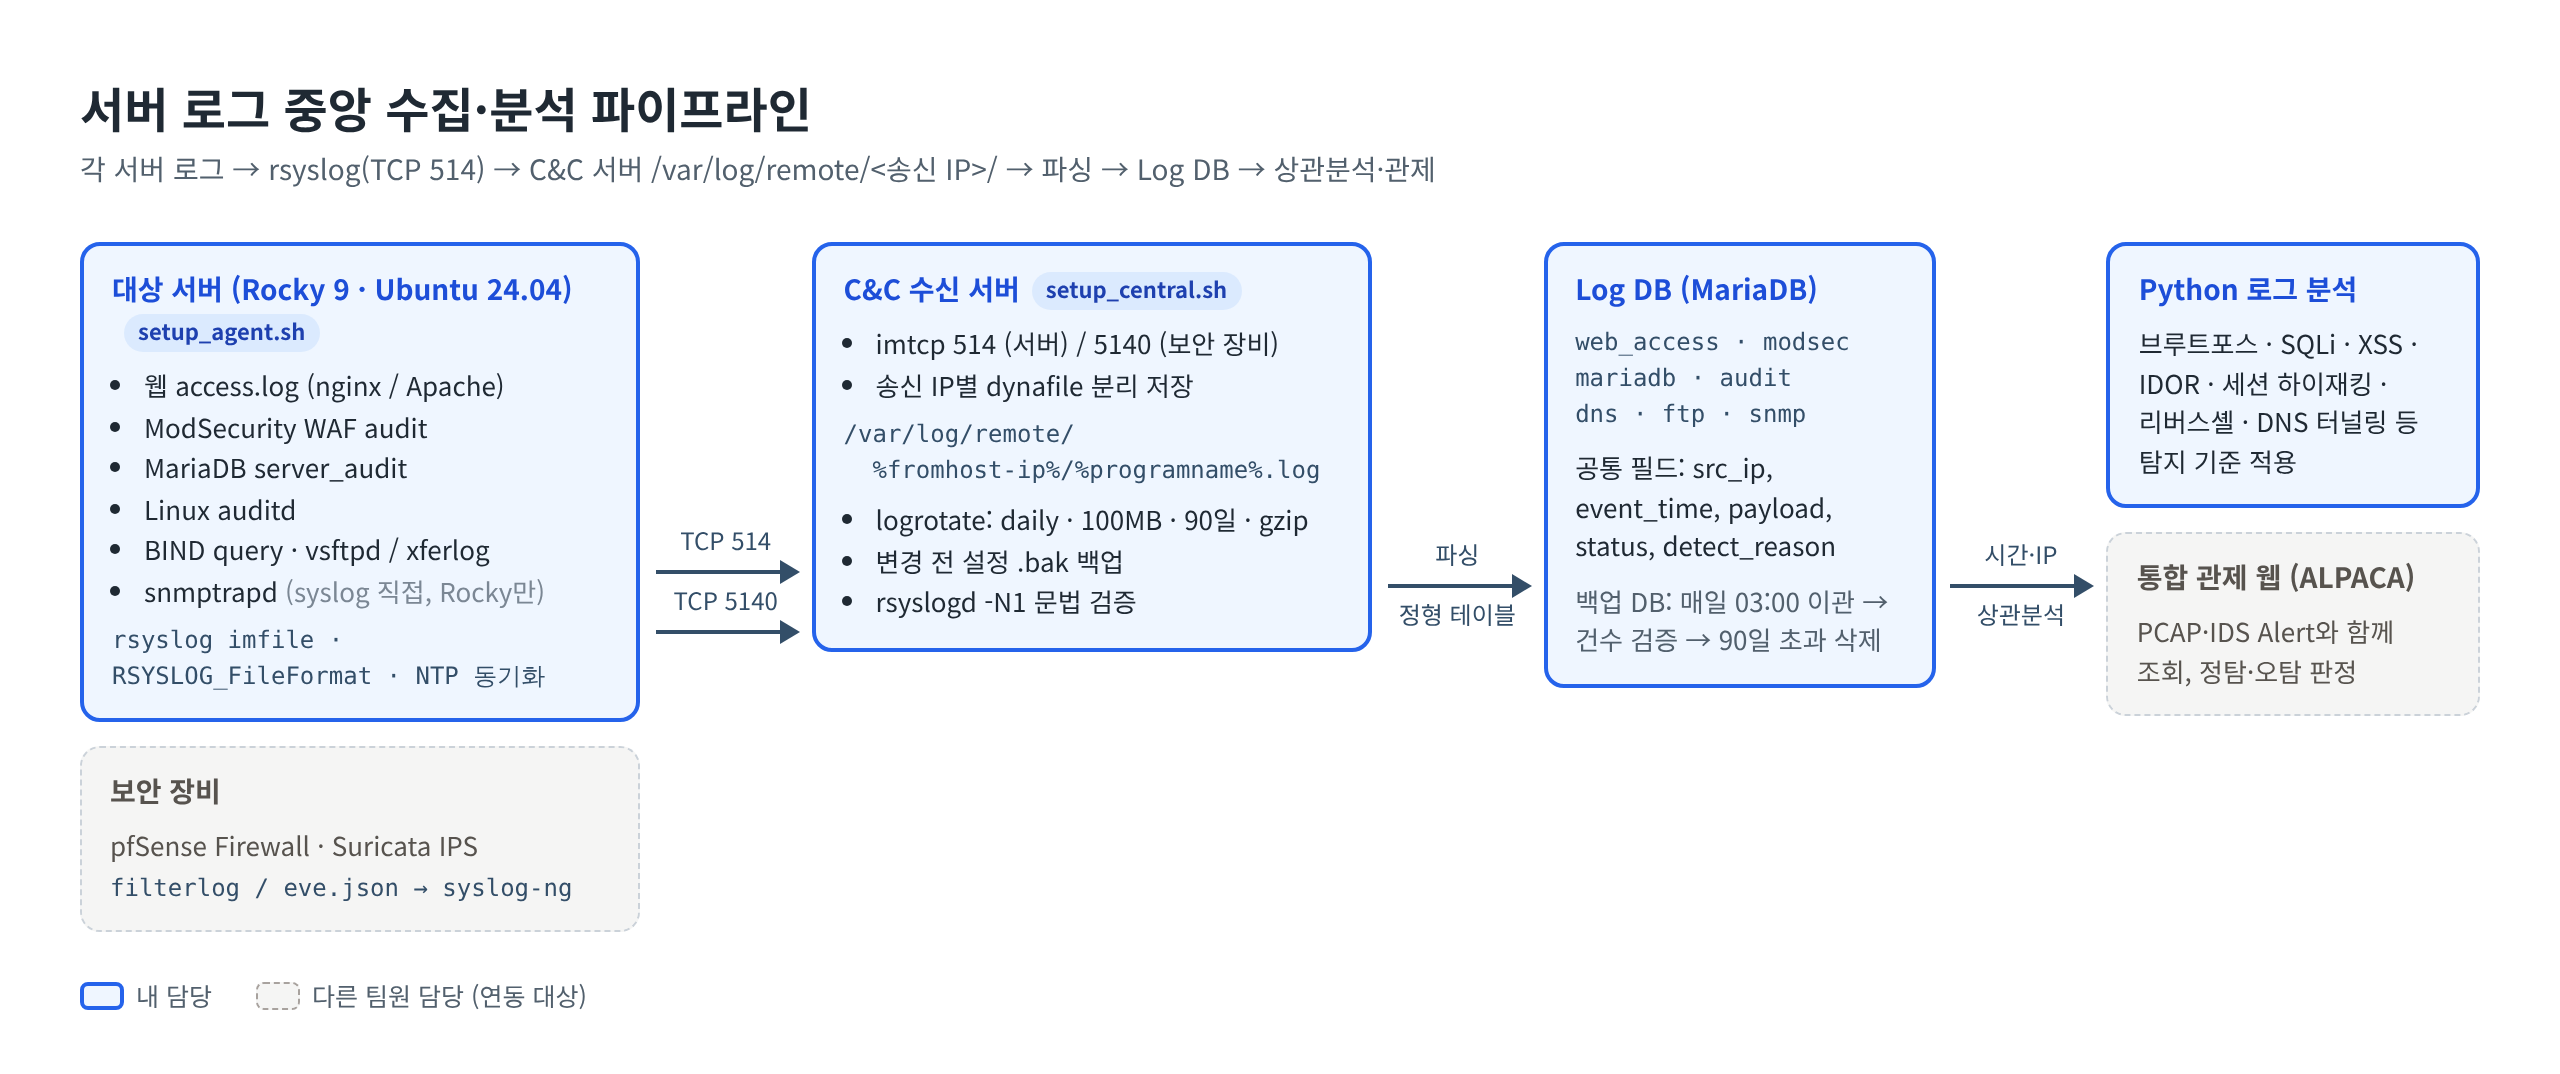
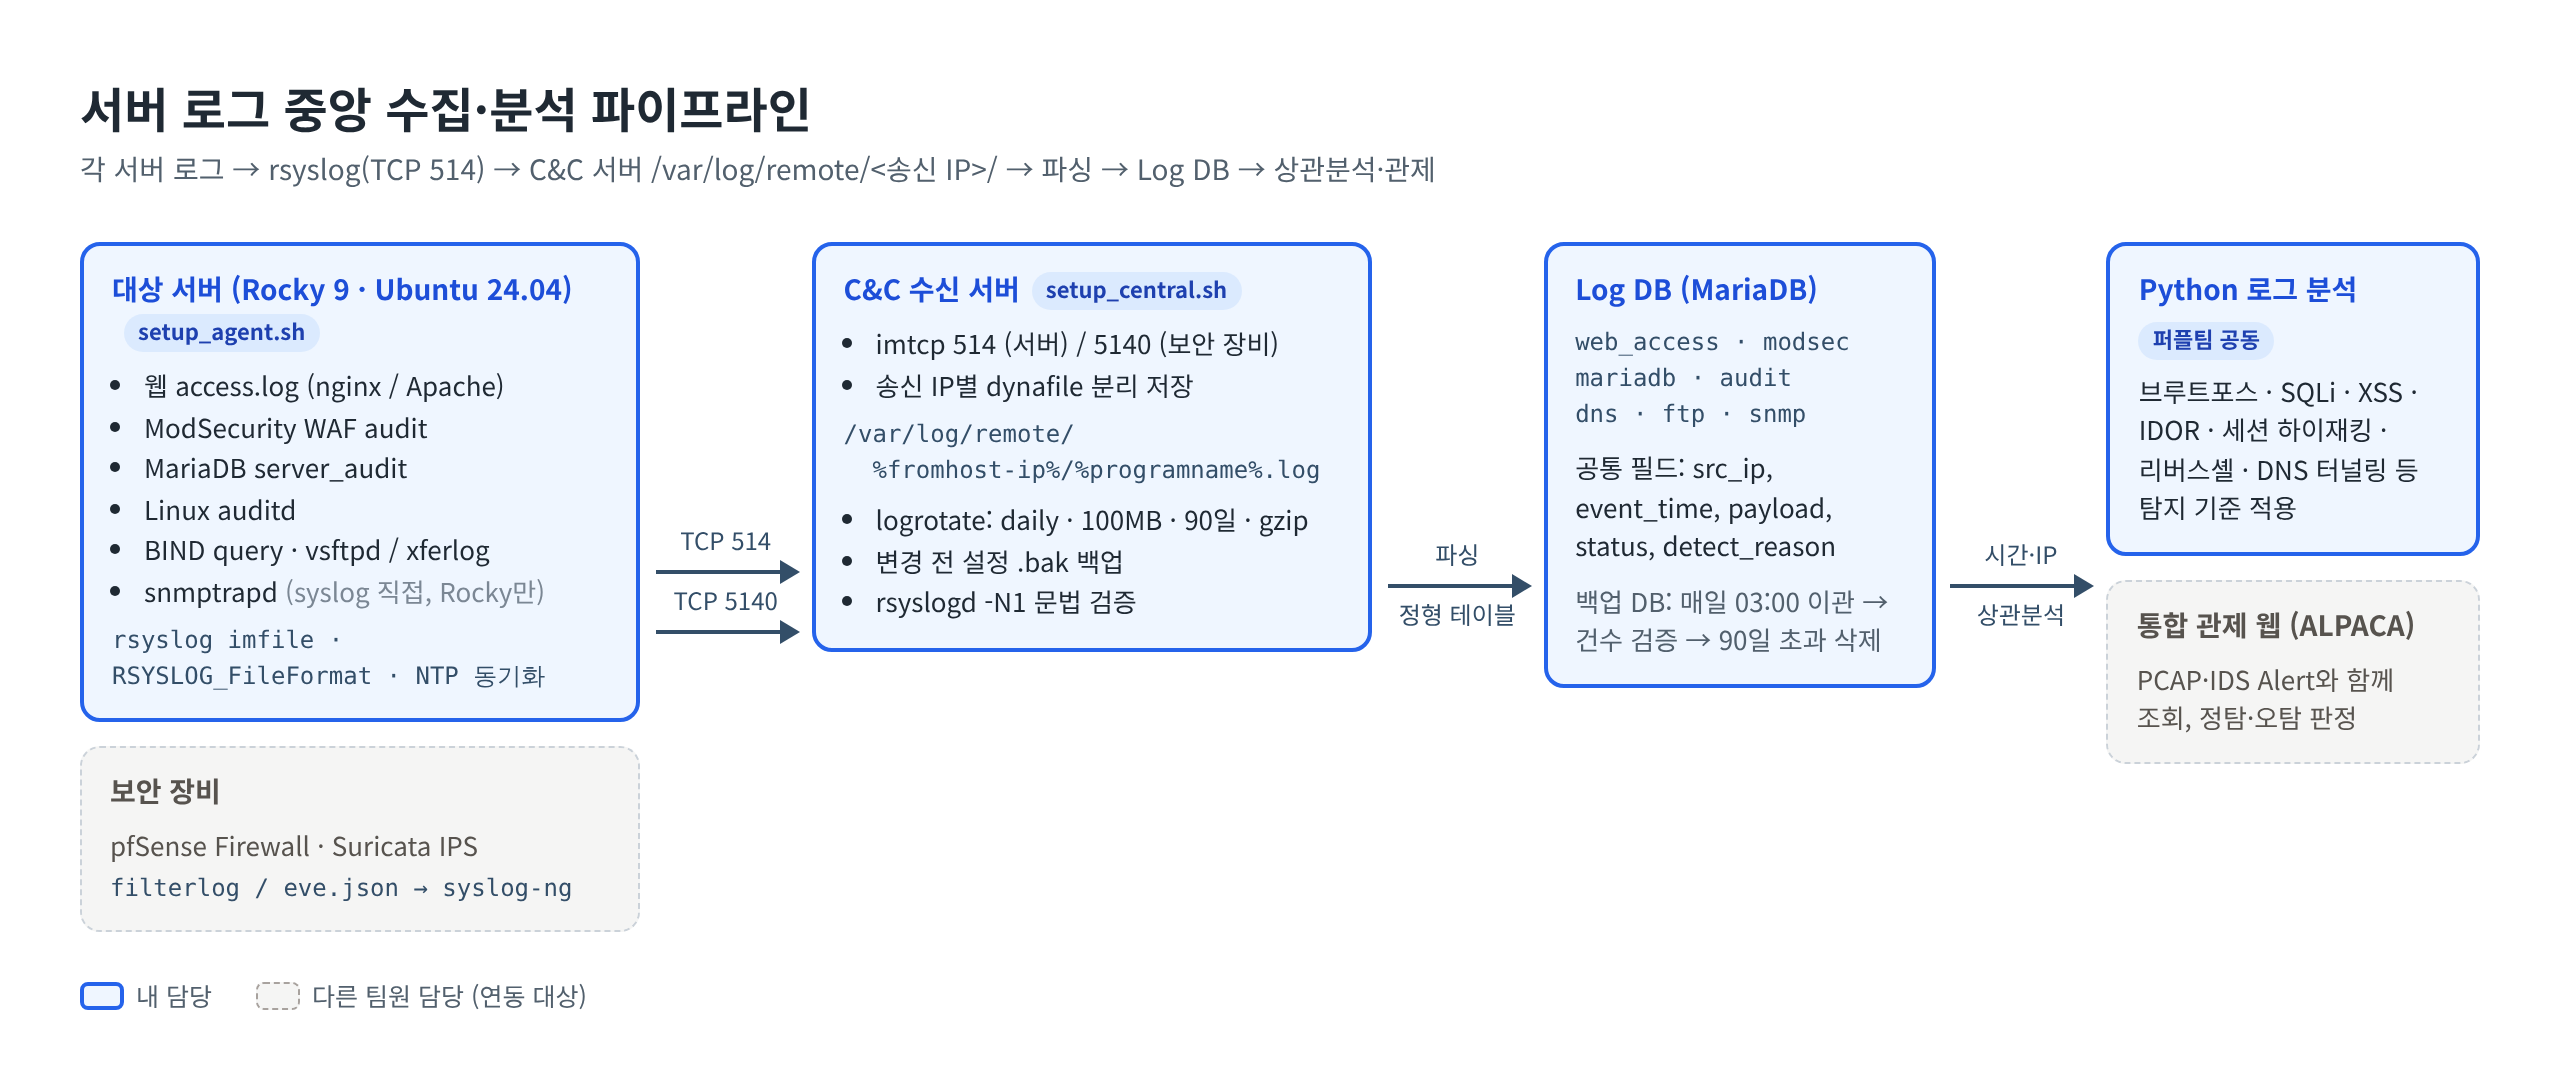
용량 절감 수치 삭제, 로그 분석 기준을 퍼플팀 공동 작업으로 표기

Changed region(s): [[0.8125, 0.3073, 0.9688, 0.676]]

diff --git a/docs/log-analysis.md b/docs/log-analysis.md
@@ -2,7 +2,7 @@
 
 [← README로 돌아가기](../README.md)
 
-## 1. 로그 분석 기준 (Python)
+## 1. 로그 분석 기준 (Python, 퍼플팀 공동 수립)
 
 C&C에 수집·파싱된 로그에 아래 기준을 적용해 공격 여부를 판정하고 `detect_reason`에 기록합니다.
 
